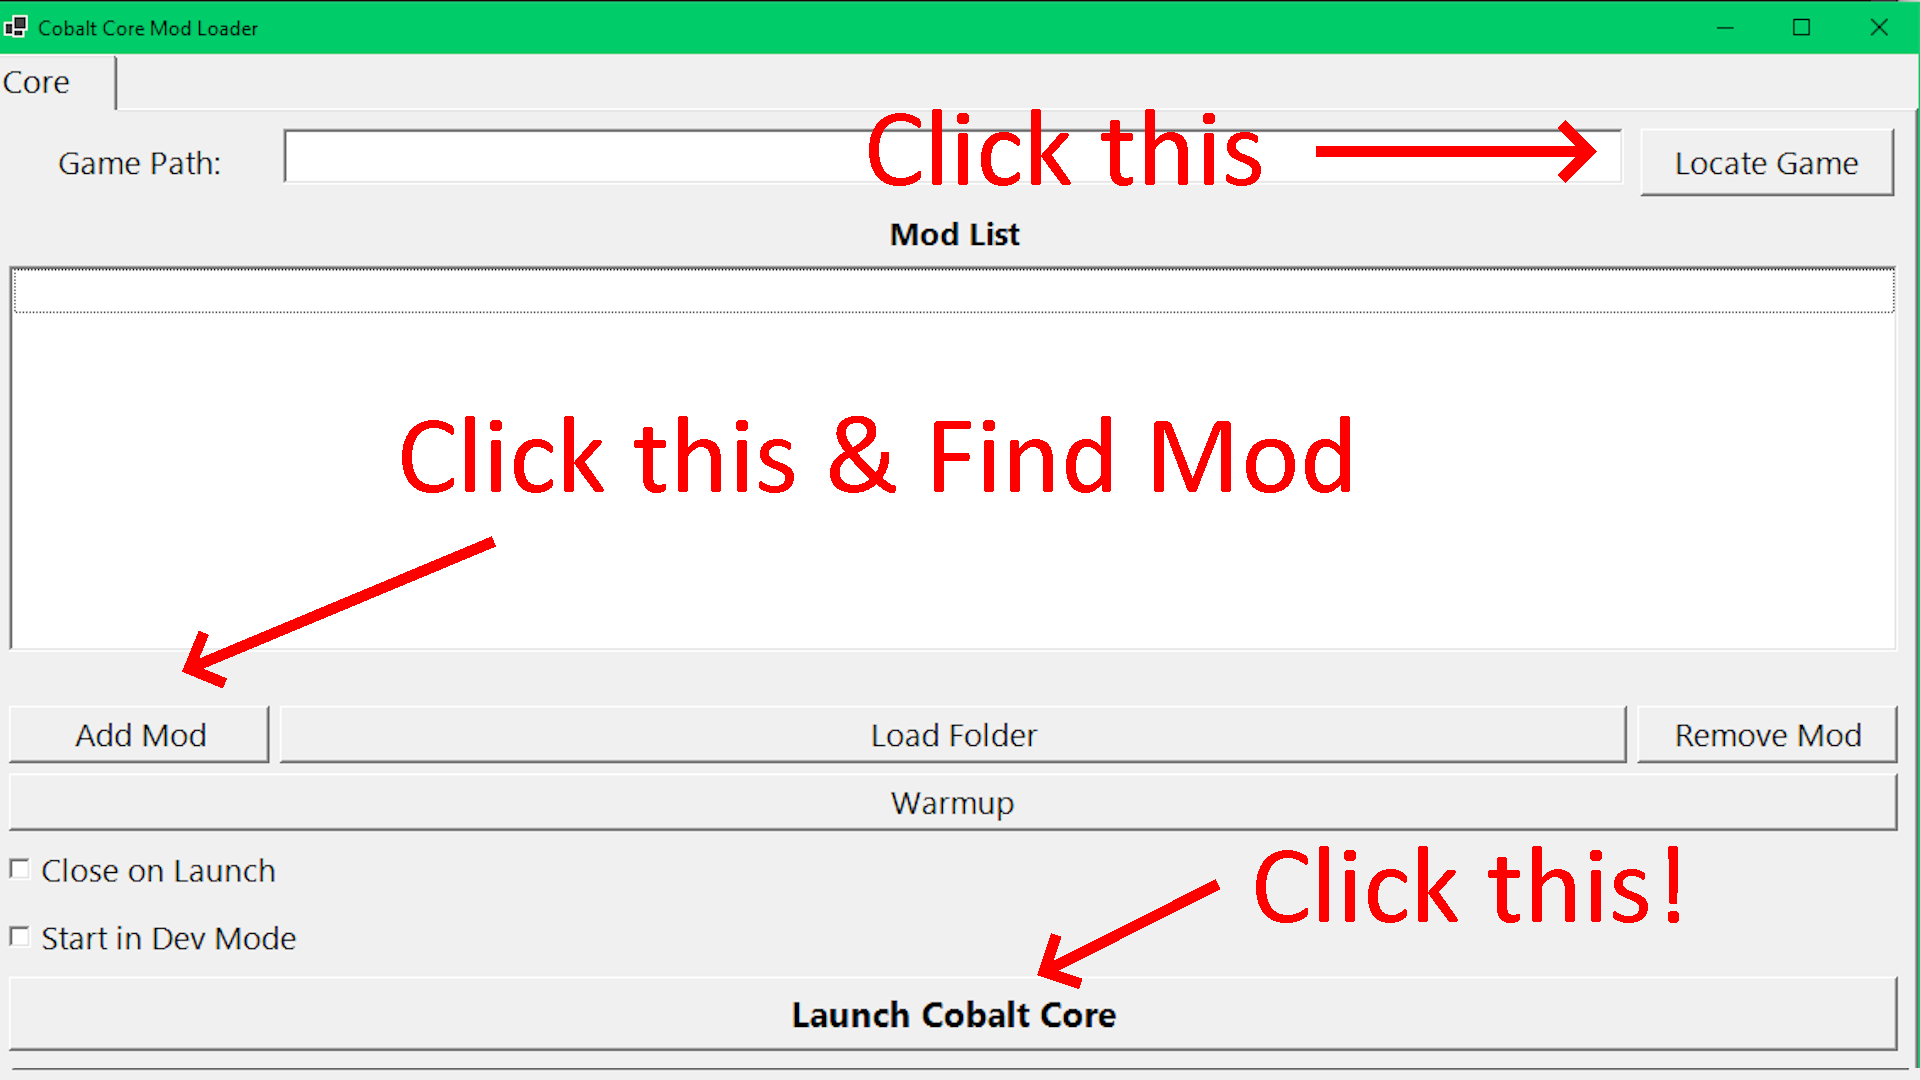
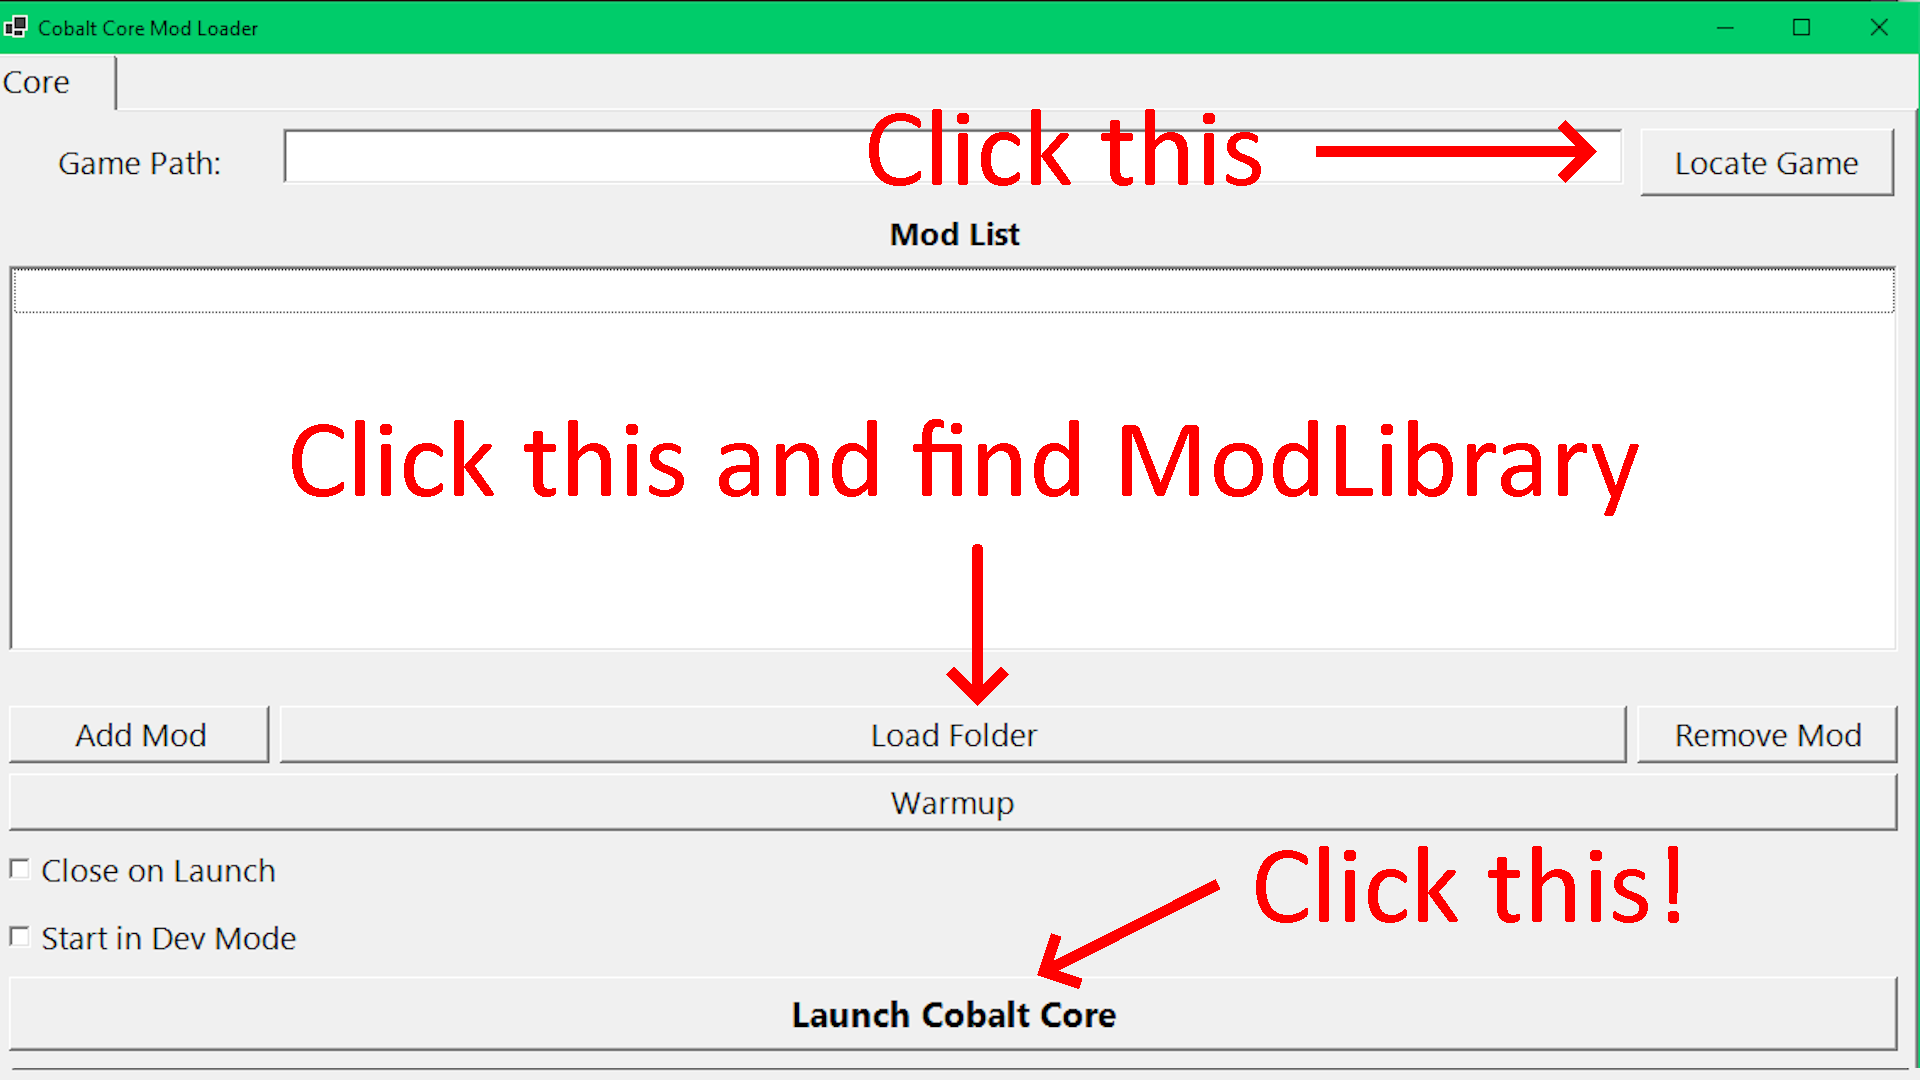
Added modloader install tutorial

diff --git a/how_to_install_modloader.md b/how_to_install_modloader.md
@@ -1,0 +1,11 @@
+# Installing modloader
+Download the top zip file of the latest release at: [https://github.com/Ewanderer/CobaltCoreModLoader/releases](https://github.com/Ewanderer/CobaltCoreModLoader/releases)  
+![Website above with Assets expanded on a release and "CobaltCoreModLauncher.zip" highlighted](https://raw.githubusercontent.com/ITR13/CobaltCoreShipLoader/main/.readme/modloader_git.png)
+Inside the zip is a folder, extract this to somewhere.  
+![If your path has ".zip" in it, then you haven't extracted it yet.](https://raw.githubusercontent.com/ITR13/CobaltCoreShipLoader/main/.readme/modloader_zip.png)  
+Create a new "ModLibrary" folder, and put your downloaded mod in it. Make sure the dll from the mod has the same name as the folder it's in.  
+![ITRsShipLoader.dll is inside CobaltCoreModLauncher/ModLibrary/ITRsShipLoader](https://raw.githubusercontent.com/ITR13/CobaltCoreShipLoader/main/.readme/modloader_folder.png)  
+Go into the extracted folder and sort by "type", and open "CobaltCoreModLoaderApp.exe"  
+![Folder is sorted with type ascending, run CobaltCoreModLoaderApp.exe](https://raw.githubusercontent.com/ITR13/CobaltCoreShipLoader/main/.readme/modloader_exe.png)  
+When the program opens, click Locate Game. Then click "Load Folder" and select the "ModLibrary" folder you added before. Once all the mods you installed show up in the list, press "**Launch Cobalt Core**"  
+![Folder is sorted with type ascending, run CobaltCoreModLoaderApp.exe](https://raw.githubusercontent.com/ITR13/CobaltCoreShipLoader/main/.readme/modloader_program.png)  
